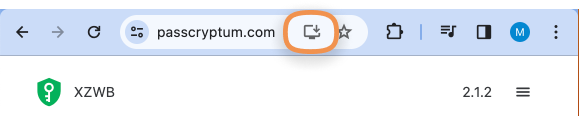
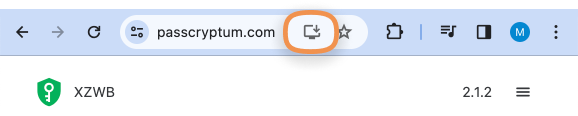
add shadow and update images

diff --git a/pages/how-tos/storage.md b/pages/how-tos/storage.md
@@ -7,14 +7,14 @@
 1. Click the <b>≡</b> icon.
 1. In the drop-down menu, click <b>Storage</b>.
 
-   ![The application menu. The Storage item](../images/storage/storage-menu-item.png 'The application menu. The Storage item')
+   ![The application menu. The Storage item](../images/storage/storage-menu-item.png 'The application menu. The Storage item'){.shadow-img}
 
 1. In the <b>Storage</b> pane:
 
    1. Go to <b>Import services from file</b> block.
    1. Click <b>Select file</b>. The modal window with selecting the file will be opened.
 
-      ![The Storage pane. The Import services from file block](../images/storage/import-from-file.png 'The Storage pane. The Import services from file block')
+      ![The Storage pane. The Import services from file block](../images/storage/import-from-file.png 'The Storage pane. The Import services from file block'){.shadow-img}
 
    1. In the modal window, select the file and confirm opening.
 
@@ -26,14 +26,14 @@ The services will be imported.
 1. Click the <b>≡</b> icon.
 1. In the drop-down menu, click <b>Storage</b>.
 
-   ![The application menu. The Storage item](../images/storage/storage-menu-item.png 'The application menu. The Storage item')
+   ![The application menu. The Storage item](../images/storage/storage-menu-item.png 'The application menu. The Storage item'){.shadow-img}
 
 1. In the <b>Storage</b> pane:
 
    1. Go to <b>Export services</b> block.
    1. Click <b>Download file</b>.
 
-   ![The Storage pane. The Export services block](../images/storage/export-download.png 'The Storage pane. The Export services block')
+   ![The Storage pane. The Export services block](../images/storage/export-download.png 'The Storage pane. The Export services block'){.shadow-img}
 
 The file will be downloaded. It has:
 

diff --git a/pages/how-tos/general.md b/pages/how-tos/general.md
@@ -17,11 +17,11 @@ To run the application:
 1. [Sign in the Passcryptum](general.md#sign-in-passcryptum).
 1. In the address bar, click the PWA icon.
 
-   ![The PWA icon in the address bar](../images/pwa/install-icon.png 'The PWA icon in the address bar')
+   ![The PWA icon in the address bar](../images/pwa/install-icon.png 'The PWA icon in the address bar'){.shadow-img}
 
 1. In the <b>Install app?</b> popup, click <b>Install</b>.
 
-   ![The Install app? popup](../images/pwa/install-window.png 'The Install app? popup')
+   ![The Install app? popup](../images/pwa/install-window.png 'The Install app? popup'){.shadow-img}
 
 The application will open in a new window.
 
@@ -41,7 +41,7 @@ The application will open in a new window.
 
 ## Sign in Passcryptum
 
-![The main page. The password tab with the entered origin password](../images/general/sign-in-password.png 'The main page. The password tab with the entered origin password')
+![The main page. The password tab with the entered origin password](../images/general/sign-in-password.png 'The main page. The password tab with the entered origin password'){.shadow-img}
 
 ### Web application
 
@@ -70,4 +70,4 @@ The application will open in a new window.
 1. Click the <b>≡</b> icon.
 1. In the drop-down menu, click <b>Sign out</b>.
 
-![The application menu. The Sign out item](../images/general/sign-out-menu-item.png 'The application menu. The Sign out item')
+![The application menu. The Sign out item](../images/general/sign-out-menu-item.png 'The application menu. The Sign out item'){.shadow-img}

diff --git a/pages/how-tos/pin.md b/pages/how-tos/pin.md
@@ -12,13 +12,13 @@ If you have forgotten your PIN, set a new one. Your current PIN will be replaced
 1. Click the <b>≡</b> icon.
 1. In the drop-down menu, click <b>Set PIN</b>.
 
-   ![The application menu. The Set PIN item](../images/pin/set-menu-item.png 'The application menu. The Set PIN item')
+   ![The application menu. The Set PIN item](../images/pin/set-menu-item.png 'The application menu. The Set PIN item'){.shadow-img}
 
 1. In the <b>Setting PIN</b> window:
    1. Enter a PIN.
    1. Click <b>Continue</b>.
 
-![The Setting window](../images/pin/set-window.png 'The Setting window')
+![The Setting window](../images/pin/set-window.png 'The Setting window'){.shadow-img}
 
 ## Delete PIN
 
@@ -26,8 +26,8 @@ If you have forgotten your PIN, set a new one. Your current PIN will be replaced
 1. Click the <b>≡</b> icon.
 1. In the drop-down menu, click <b>Delete PIN</b>.
 
-   ![The application menu. The Delete PIN item](../images/pin/delete-menu-item.png 'The application menu. The Delete PIN item')
+   ![The application menu. The Delete PIN item](../images/pin/delete-menu-item.png 'The application menu. The Delete PIN item'){.shadow-img}
 
 1. In the modal window, confirm deleting.
 
-![The Your PIN will be deleted window](../images/pin/delete-window.png 'The Your PIN will be deleted window')
+![The Your PIN will be deleted window](../images/pin/delete-window.png 'The Your PIN will be deleted window'){.shadow-img}

diff --git a/pages/how-tos/services.md b/pages/how-tos/services.md
@@ -9,14 +9,14 @@
 
    If you are adding the first service, click <b>Create the first one</b>.
 
-   ![The main page, the button for adding the first service](../images/services/button-for-first.png 'The main page, the button for adding the first service')
+   ![The main page, the button for adding the first service](../images/services/button-for-first.png 'The main page, the button for adding the first service'){.shadow-img}
 
 1. In the <b>Service addition</b> window:
    1. Enter the service name.
    1. Enter the login for the service.
    1. Click <b>Continue</b>.
 
-![The Service addition window](../images/services/add-window.png 'The Service addition window')
+![The Service addition window](../images/services/add-window.png 'The Service addition window'){.shadow-img}
 
 ## Find service
 
@@ -25,8 +25,8 @@
 
    1. Enter the service name in the search bar.
 
-      ![The service search bar](../images/services/search-bar.png 'The service search bar')
+      ![The service search bar](../images/services/search-bar.png 'The service search bar'){.shadow-img}
 
    1. Select the service from the search bar drop-down list.
 
-![The service search result](../images/services/search-result.png 'The service search result')
+![The service search result](../images/services/search-result.png 'The service search result'){.shadow-img}

diff --git a/pages/how-tos/password.md b/pages/how-tos/password.md
@@ -6,4 +6,4 @@
 1. [Find the service](services.md#find-service).
 1. Click <b>Copy password</b>.
 
-![The copy button for the service password](../images/services/search-result.png 'The copy button for the service password')
+![The copy button for the service password](../images/services/search-result.png 'The copy button for the service password'){.shadow-img}
